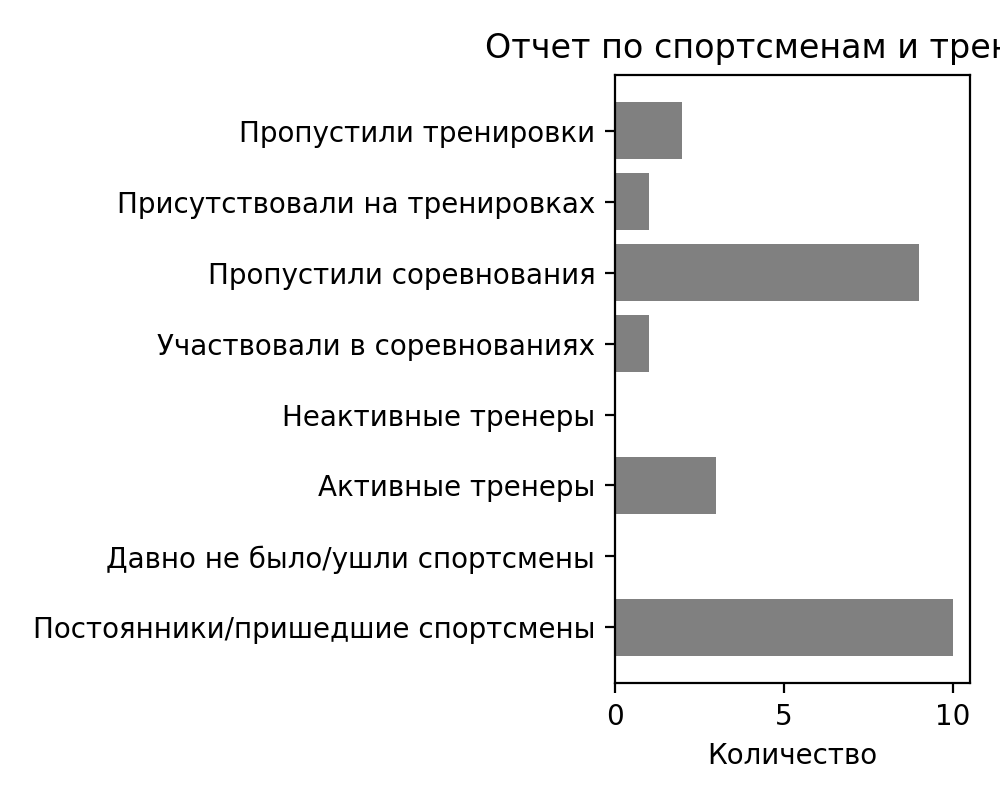
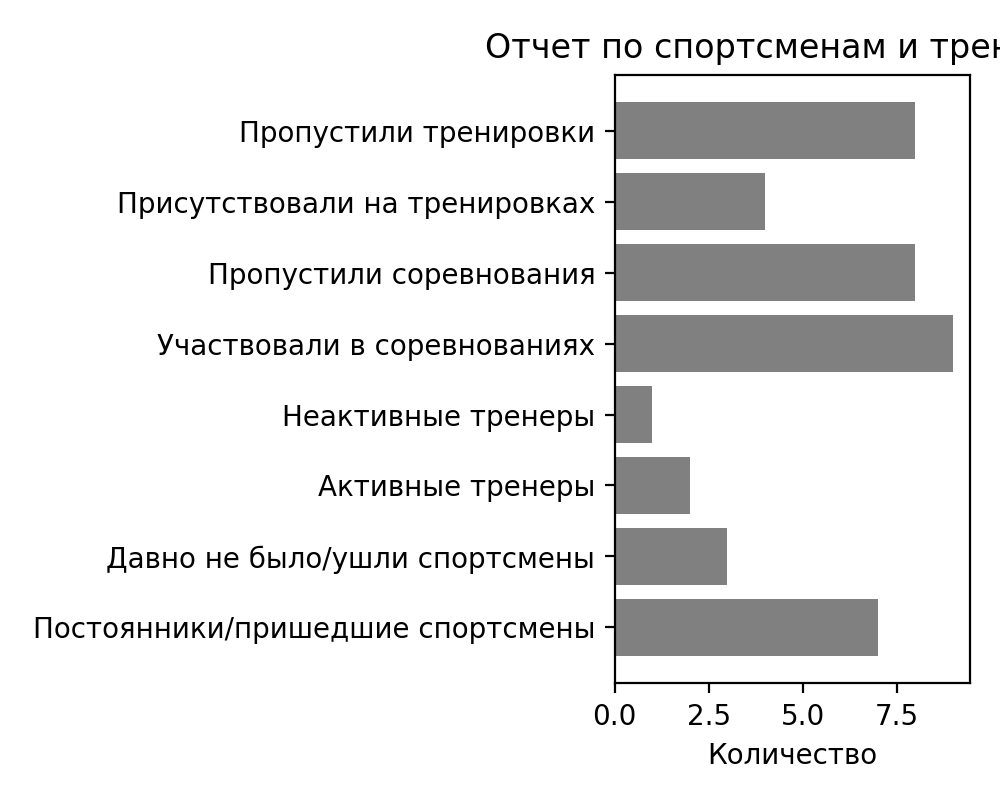
изменение кнопки спортсмен и тренер

diff --git a/sportsman_button.py b/sportsman_button.py
@@ -101,9 +101,12 @@ class SportsmenWindow(QWidget):
         dialog.exec()
 
     def load_data(self):
+        # Обновленный запрос с JOIN и фильтрацией по active = 1
         query = (
-            "SELECT sportsman_id, first_name,"
-            "last_name, typesport FROM sportsmen"
+            "SELECT s.sportsman_id, s.first_name, s.last_name, s.typesport "
+            "FROM sportsmen s "
+            "JOIN users u ON s.user_id = u.user_id "  # Предполагаем, что таблицы связаны по user_id
+            "WHERE u.active = 1"  # Фильтруем только активных пользователей
         )
         db = get_database_connection()
         if not db:
@@ -395,10 +398,6 @@ class InjuryDialog(QDialog):
         else:
             QMessageBox.critical(self, "Ошибка", "Нет соединения с базой данных")
 
-
-
-
-from PyQt6.QtCore import Qt
 
 class ViewInjuriesDialog(QDialog):
     def __init__(self, parent, sportsman_id):

diff --git a/trainer_button.py b/trainer_button.py
@@ -84,7 +84,10 @@ class TrainerWindow(QWidget):
 
     def load_data(self):
         query = (
-            "SELECT trainer_id, first_name, last_name, specialty FROM trainers"
+            """SELECT t.trainer_id, t.first_name, t.last_name, t.specialty 
+            FROM trainers t
+            JOIN users u ON t.user_id = u.user_id  -- Связываем таблицы по user_id
+             WHERE u.active = 1"""
         )
         db = get_database_connection()
         if not db:
